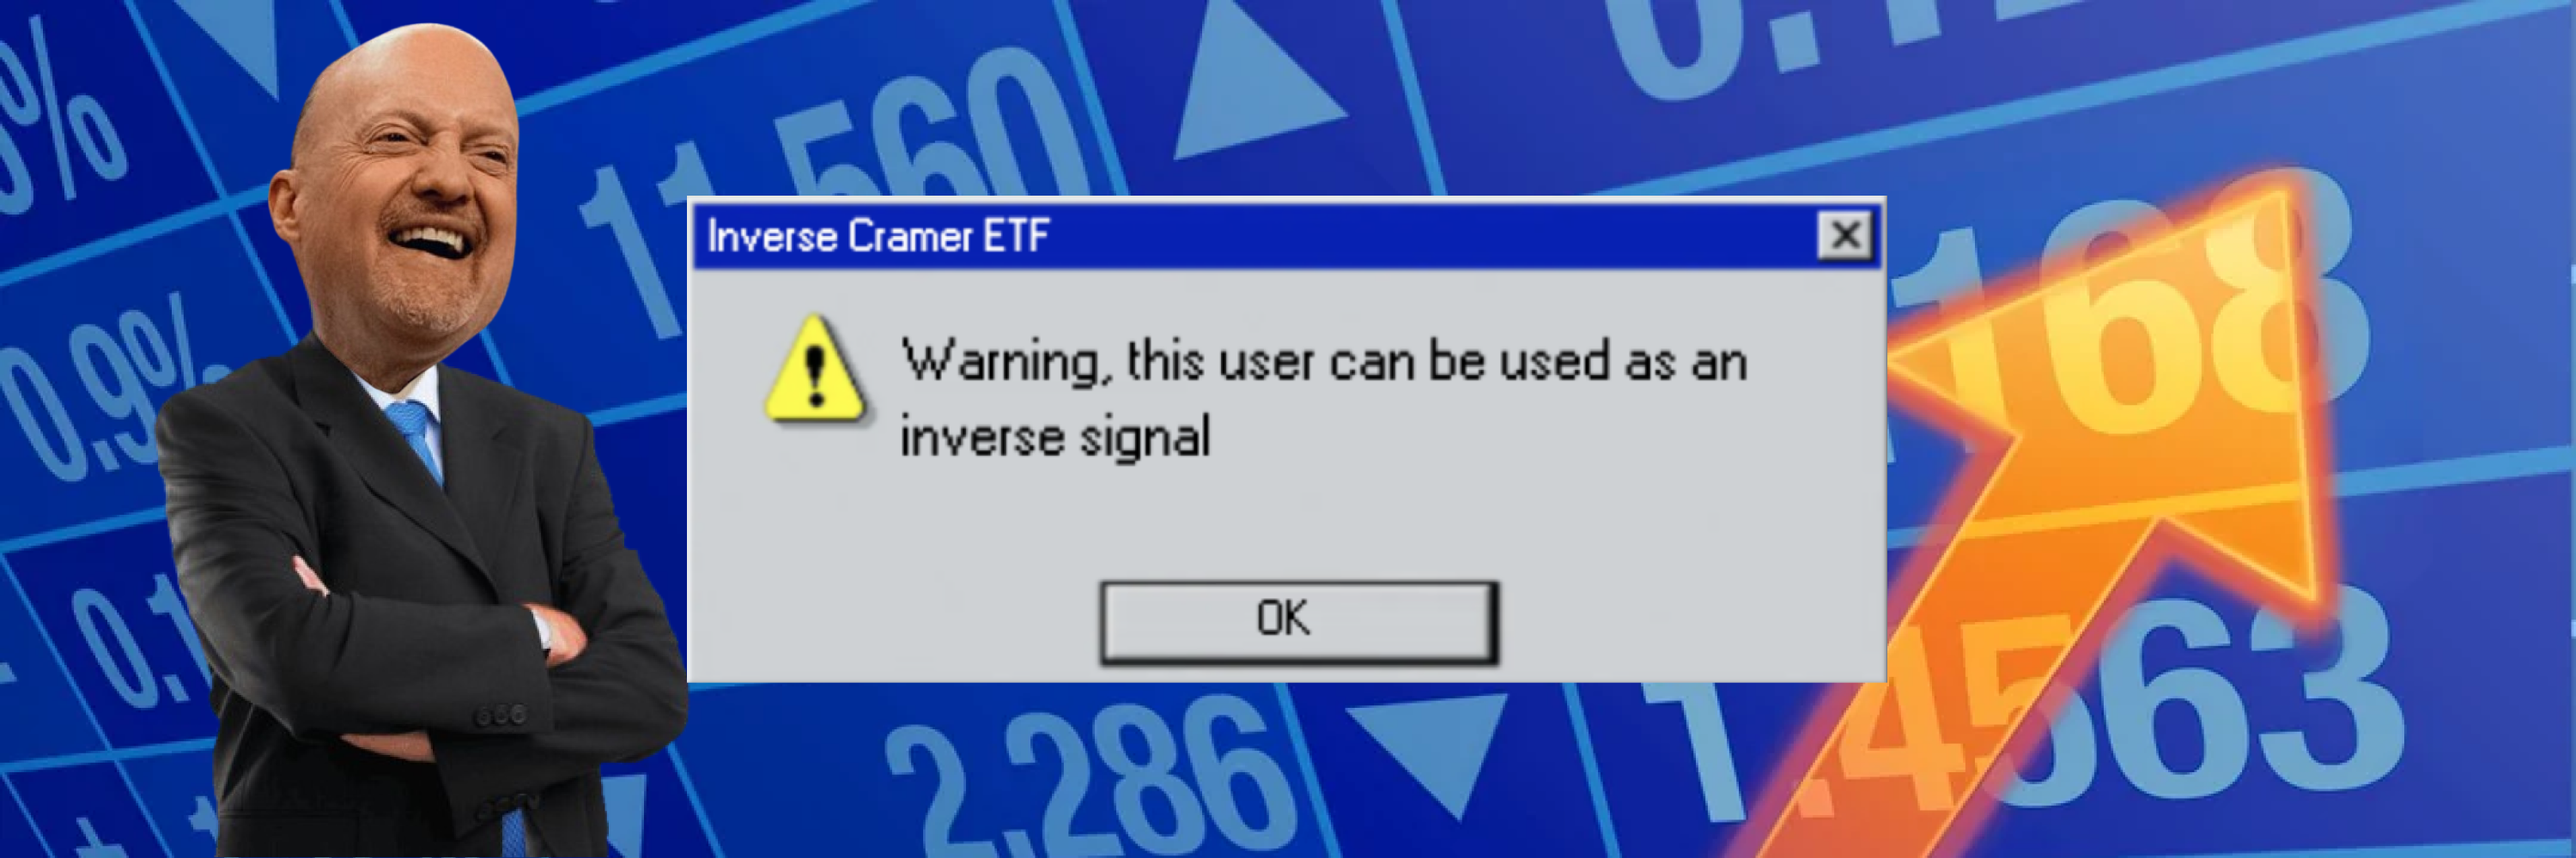
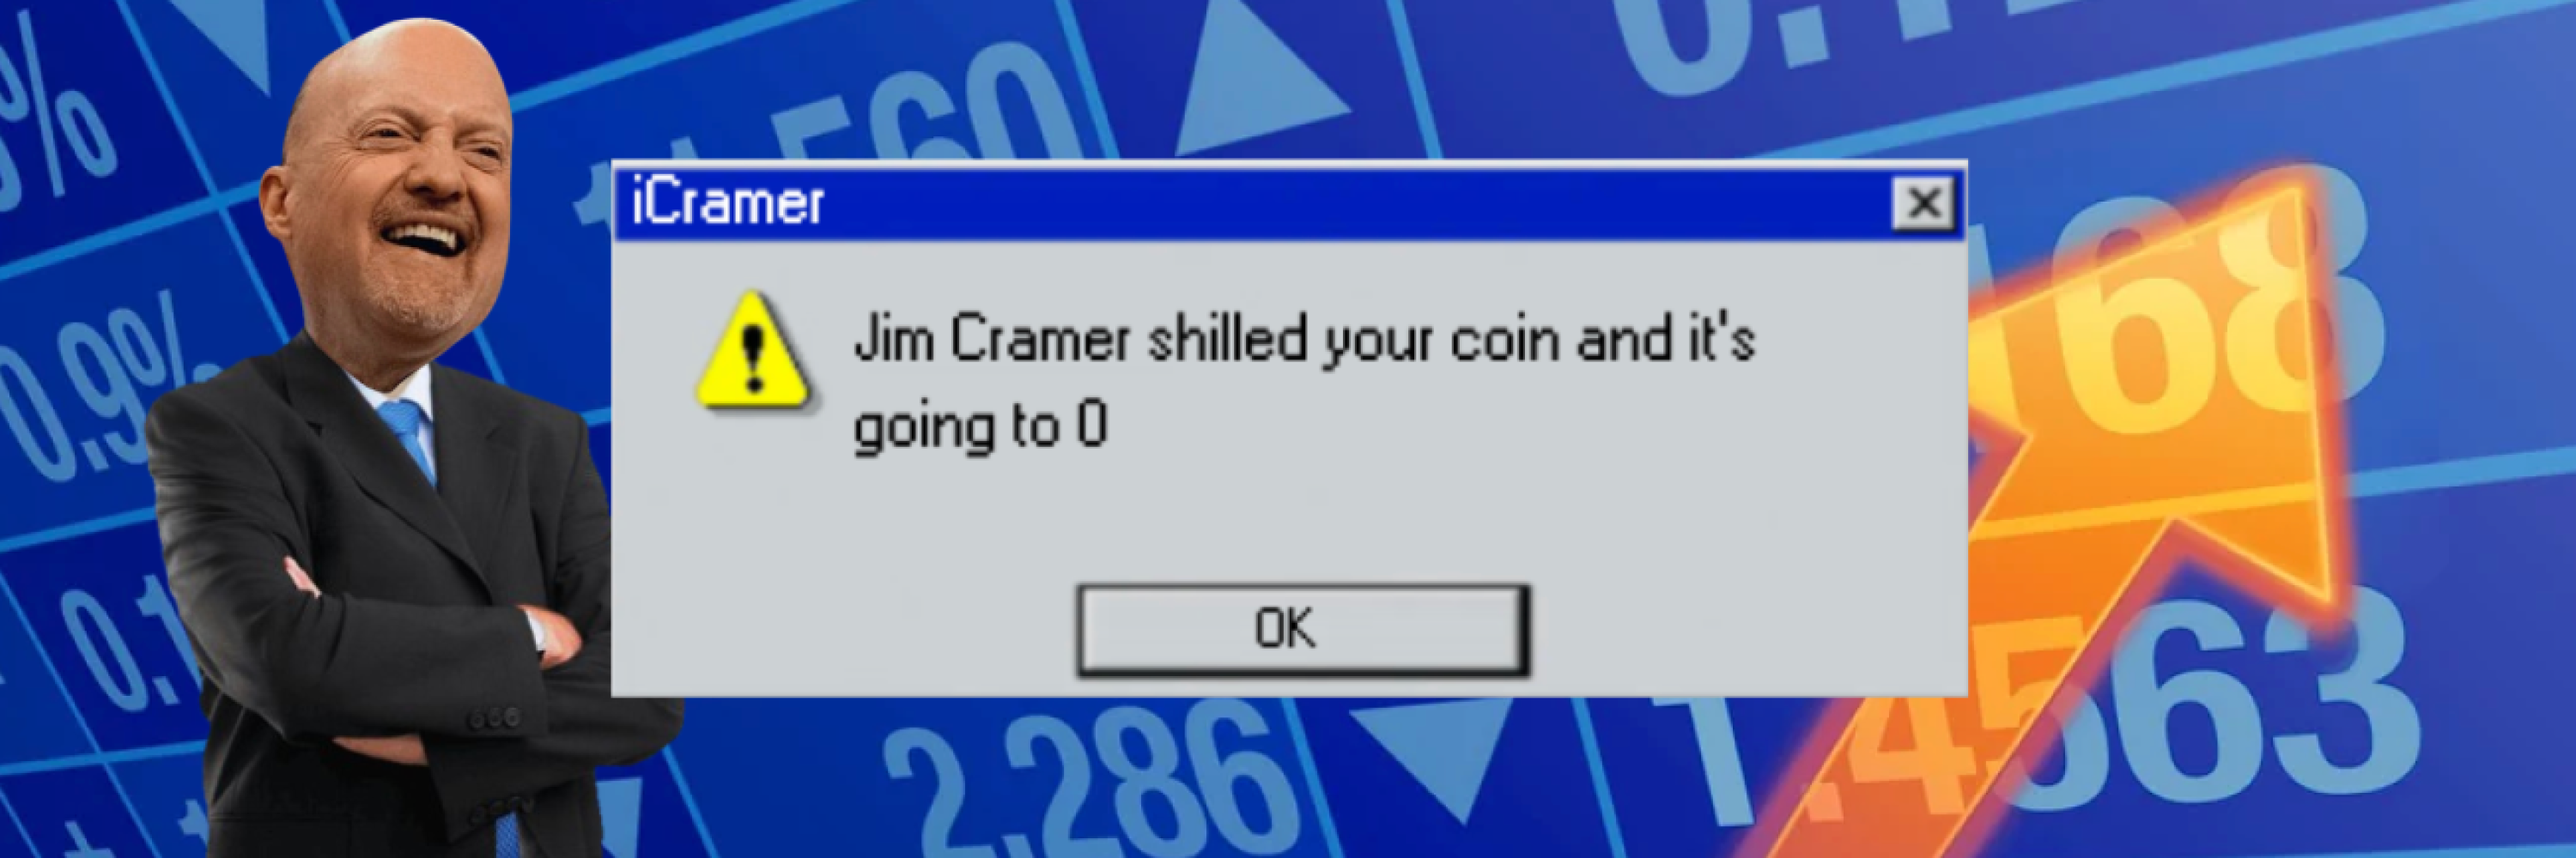
v0

diff --git a/src/App.js b/src/App.js
@@ -12,13 +12,13 @@ const reviews = [
   {
     name: "Ansem",
     username: "@blknoiz06",
-    body: "invETF is millions coded. will start shilling on X shortly",
+    body: "iCramer is millions coded. will start shilling on X shortly",
     img: "ansem.png",
   },
   {
     name: "Ken Griffin",
     username: "@KenGriffin",
-    body: "fund is doubling down on invETF. data points up and to the north",
+    body: "fund is doubling down on iCramer. data points up and to the north",
     img: "ken.png",
   },
   {
@@ -36,13 +36,13 @@ const reviews = [
   {
     name: "Wolf Of Crypto",
     username: "@W0LF0FCRYPT0",
-    body: "here to shill the f*ck out of this. only up. invETF is the next 100x",
+    body: "here to shill the f*ck out of this. only up. iCramer is the next 100x",
     img: "wolf.png",
   },
   {
     name: "Elon Musk",
     username: "@elonmusk",
-    body: "invETF might reach mars before me. inverse Cramer is max alpha",
+    body: "iCramer might reach mars before me. inverse Cramer is max alpha",
     img: "elon.png",
   },
 ];
@@ -88,7 +88,7 @@ function App() {
               <button className='p-1 text-xs md:text-base m-1 bg-zinc-400'>
                 Copy
               </button>
-              <span className='p-1 text-[9px] md:text-base'>7Mr3sWzYGoh9vVLTsPxGmkx6RJJcvPCCGH69UTUmpump</span>
+              <span className='p-1 text-[9px] md:text-base'>soon...</span>
             </Window>
           </div>
           <Window>

diff --git a/public/index.html b/public/index.html
@@ -7,7 +7,7 @@
     <meta name="theme-color" content="#000000" />
     <meta
       name="description"
-      content="Jim Cramer is the ultimate inverse signal in the markets"
+      content="Jim Cramer is the ultimate inverse signal"
     />
     <link rel="apple-touch-icon" href="%PUBLIC_URL%/inv.png" />
     <!--
@@ -24,7 +24,7 @@
       work correctly both with client-side routing and a non-root public URL.
       Learn how to configure a non-root public URL by running `npm run build`.
     -->
-    <title>invETF | Inverse Cramer ETF</title>
+    <title>iCramer</title>
   </head>
   <body>
     <noscript>You need to enable JavaScript to run this app.</noscript>

diff --git a/src/rmarquee.js b/src/rmarquee.js
@@ -5,7 +5,7 @@ const RepeatedMarquee = ({direction}) => {
   // Create an array of 10 elements
   const marqueeText = Array.from({ length: 10 }, (_, index) => (
     <span key={index} className="font-custom text-5xl md:text-6xl text-blue-600 flex justify-center items-center">
-      Inverse Cramer ETF <img src="comp.gif" className='w-[100px] ml-2'></img>
+      Inverse Cramer <img src="comp.gif" className='w-[100px] ml-2'></img>
     </span>
   ));
 
